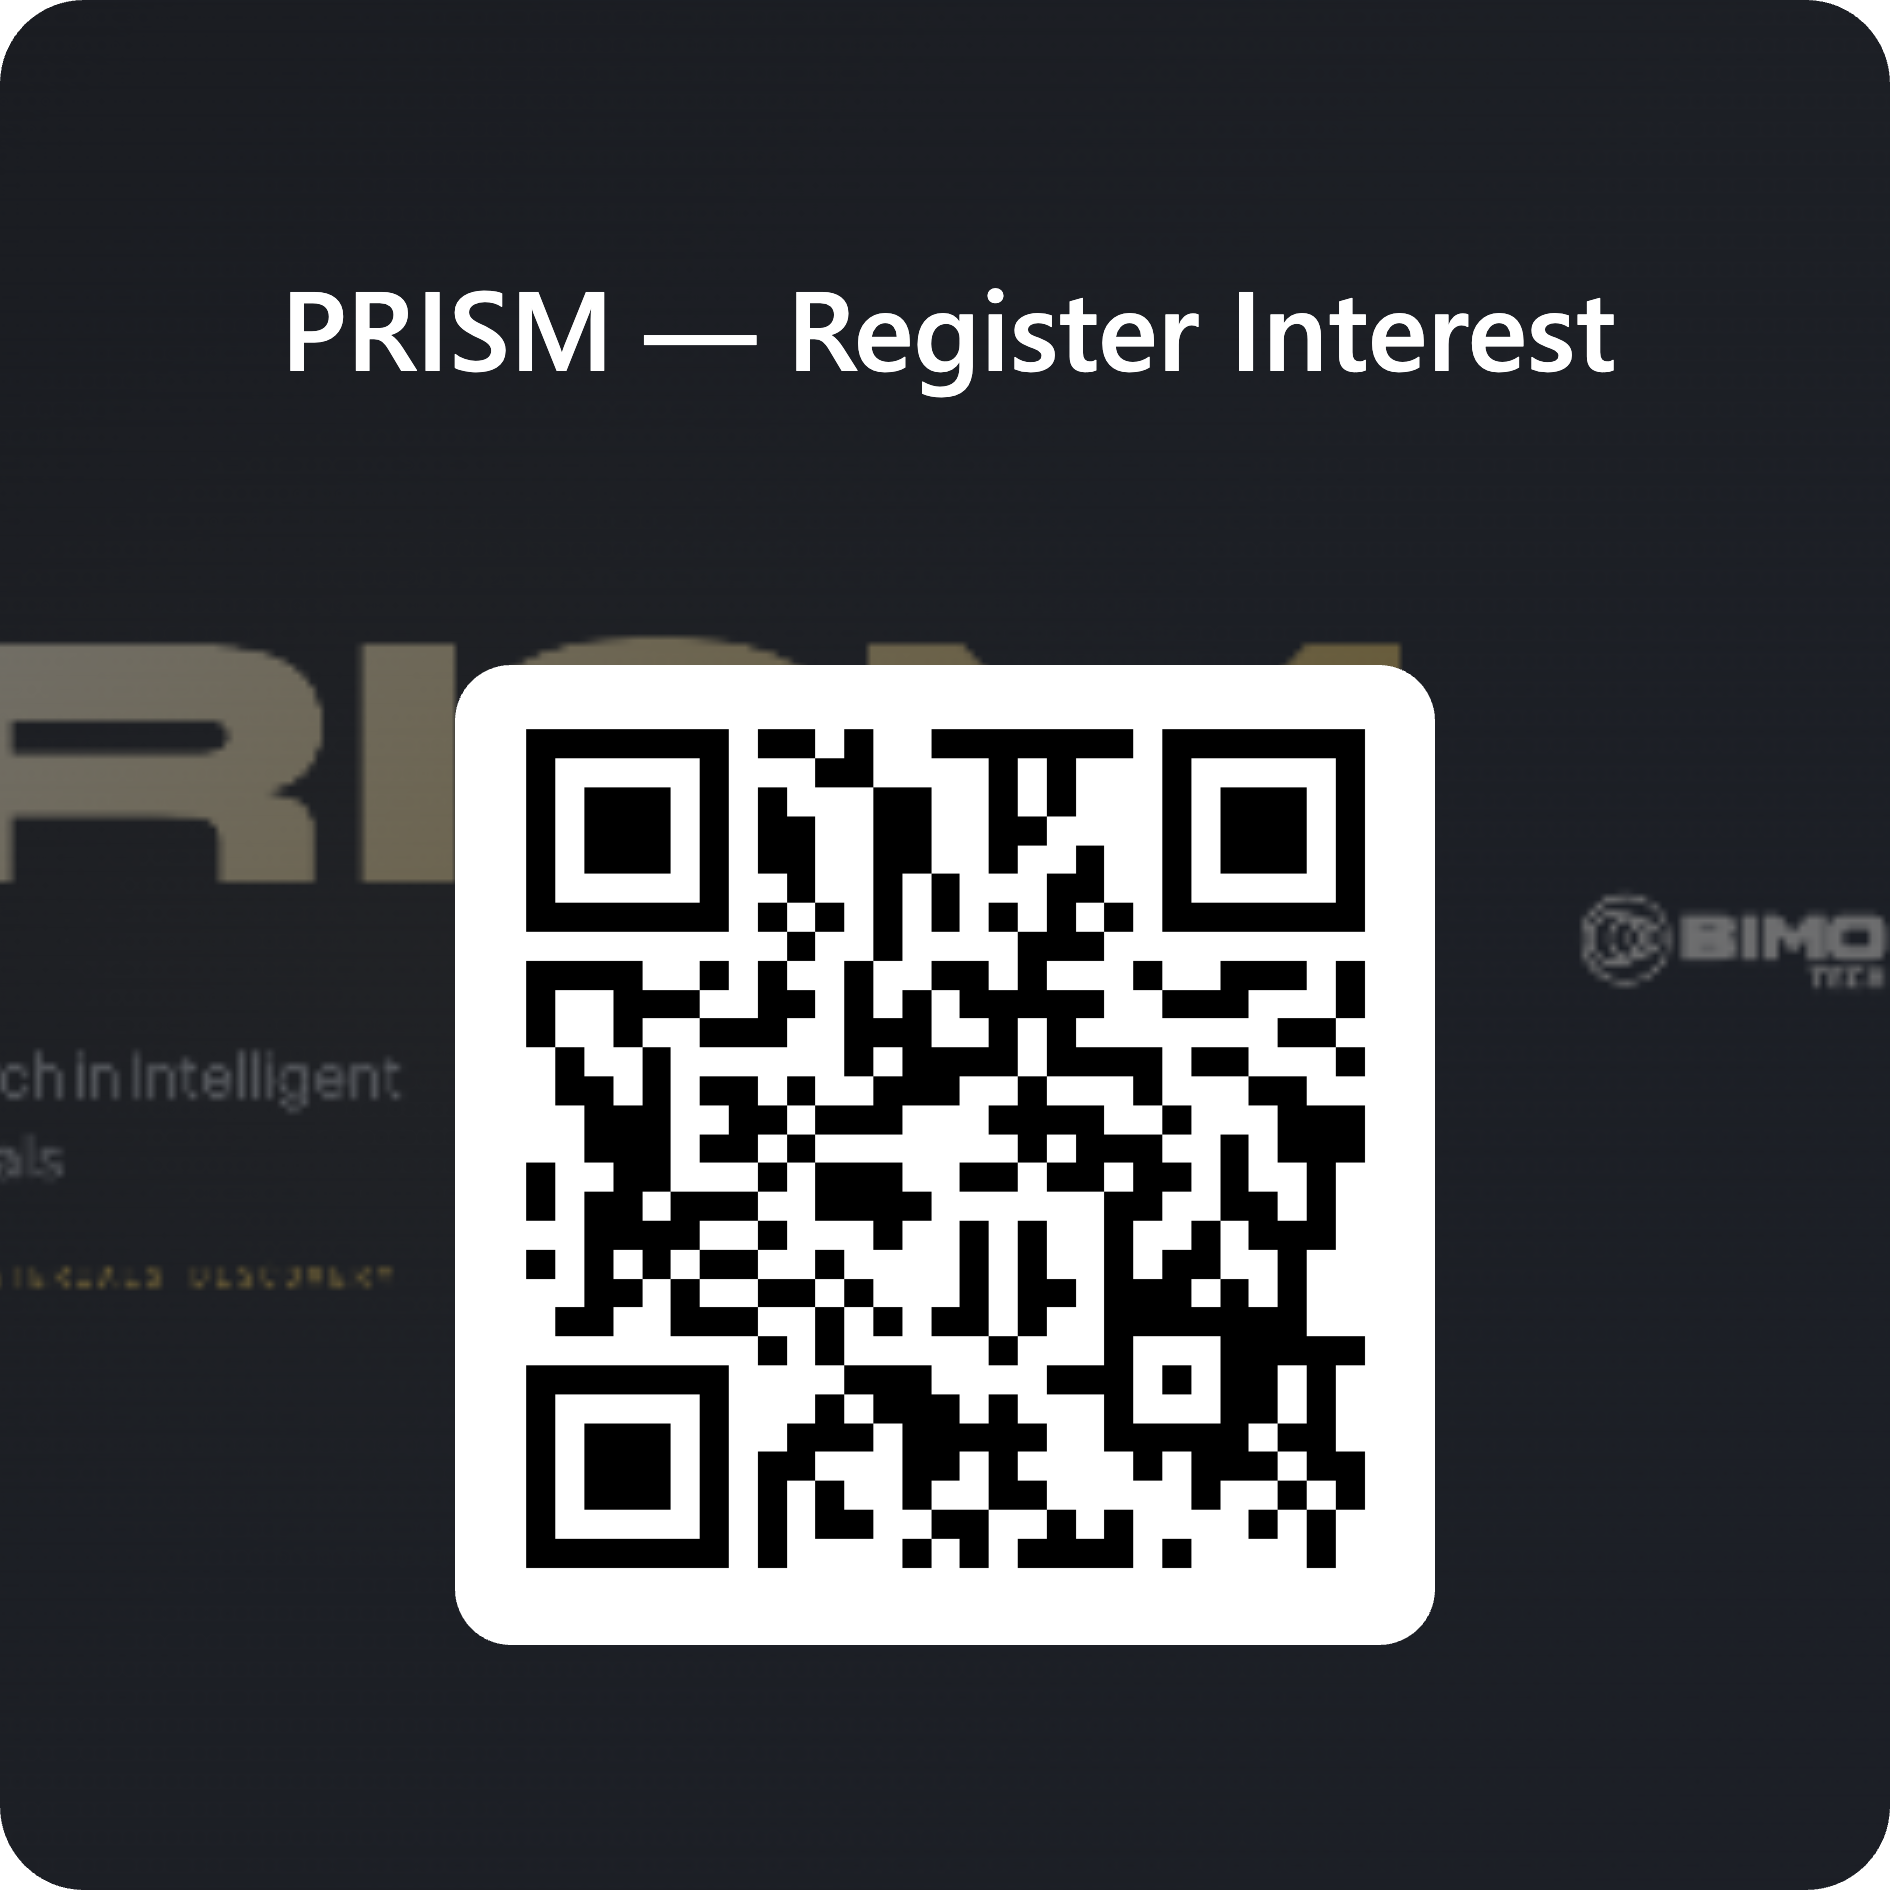
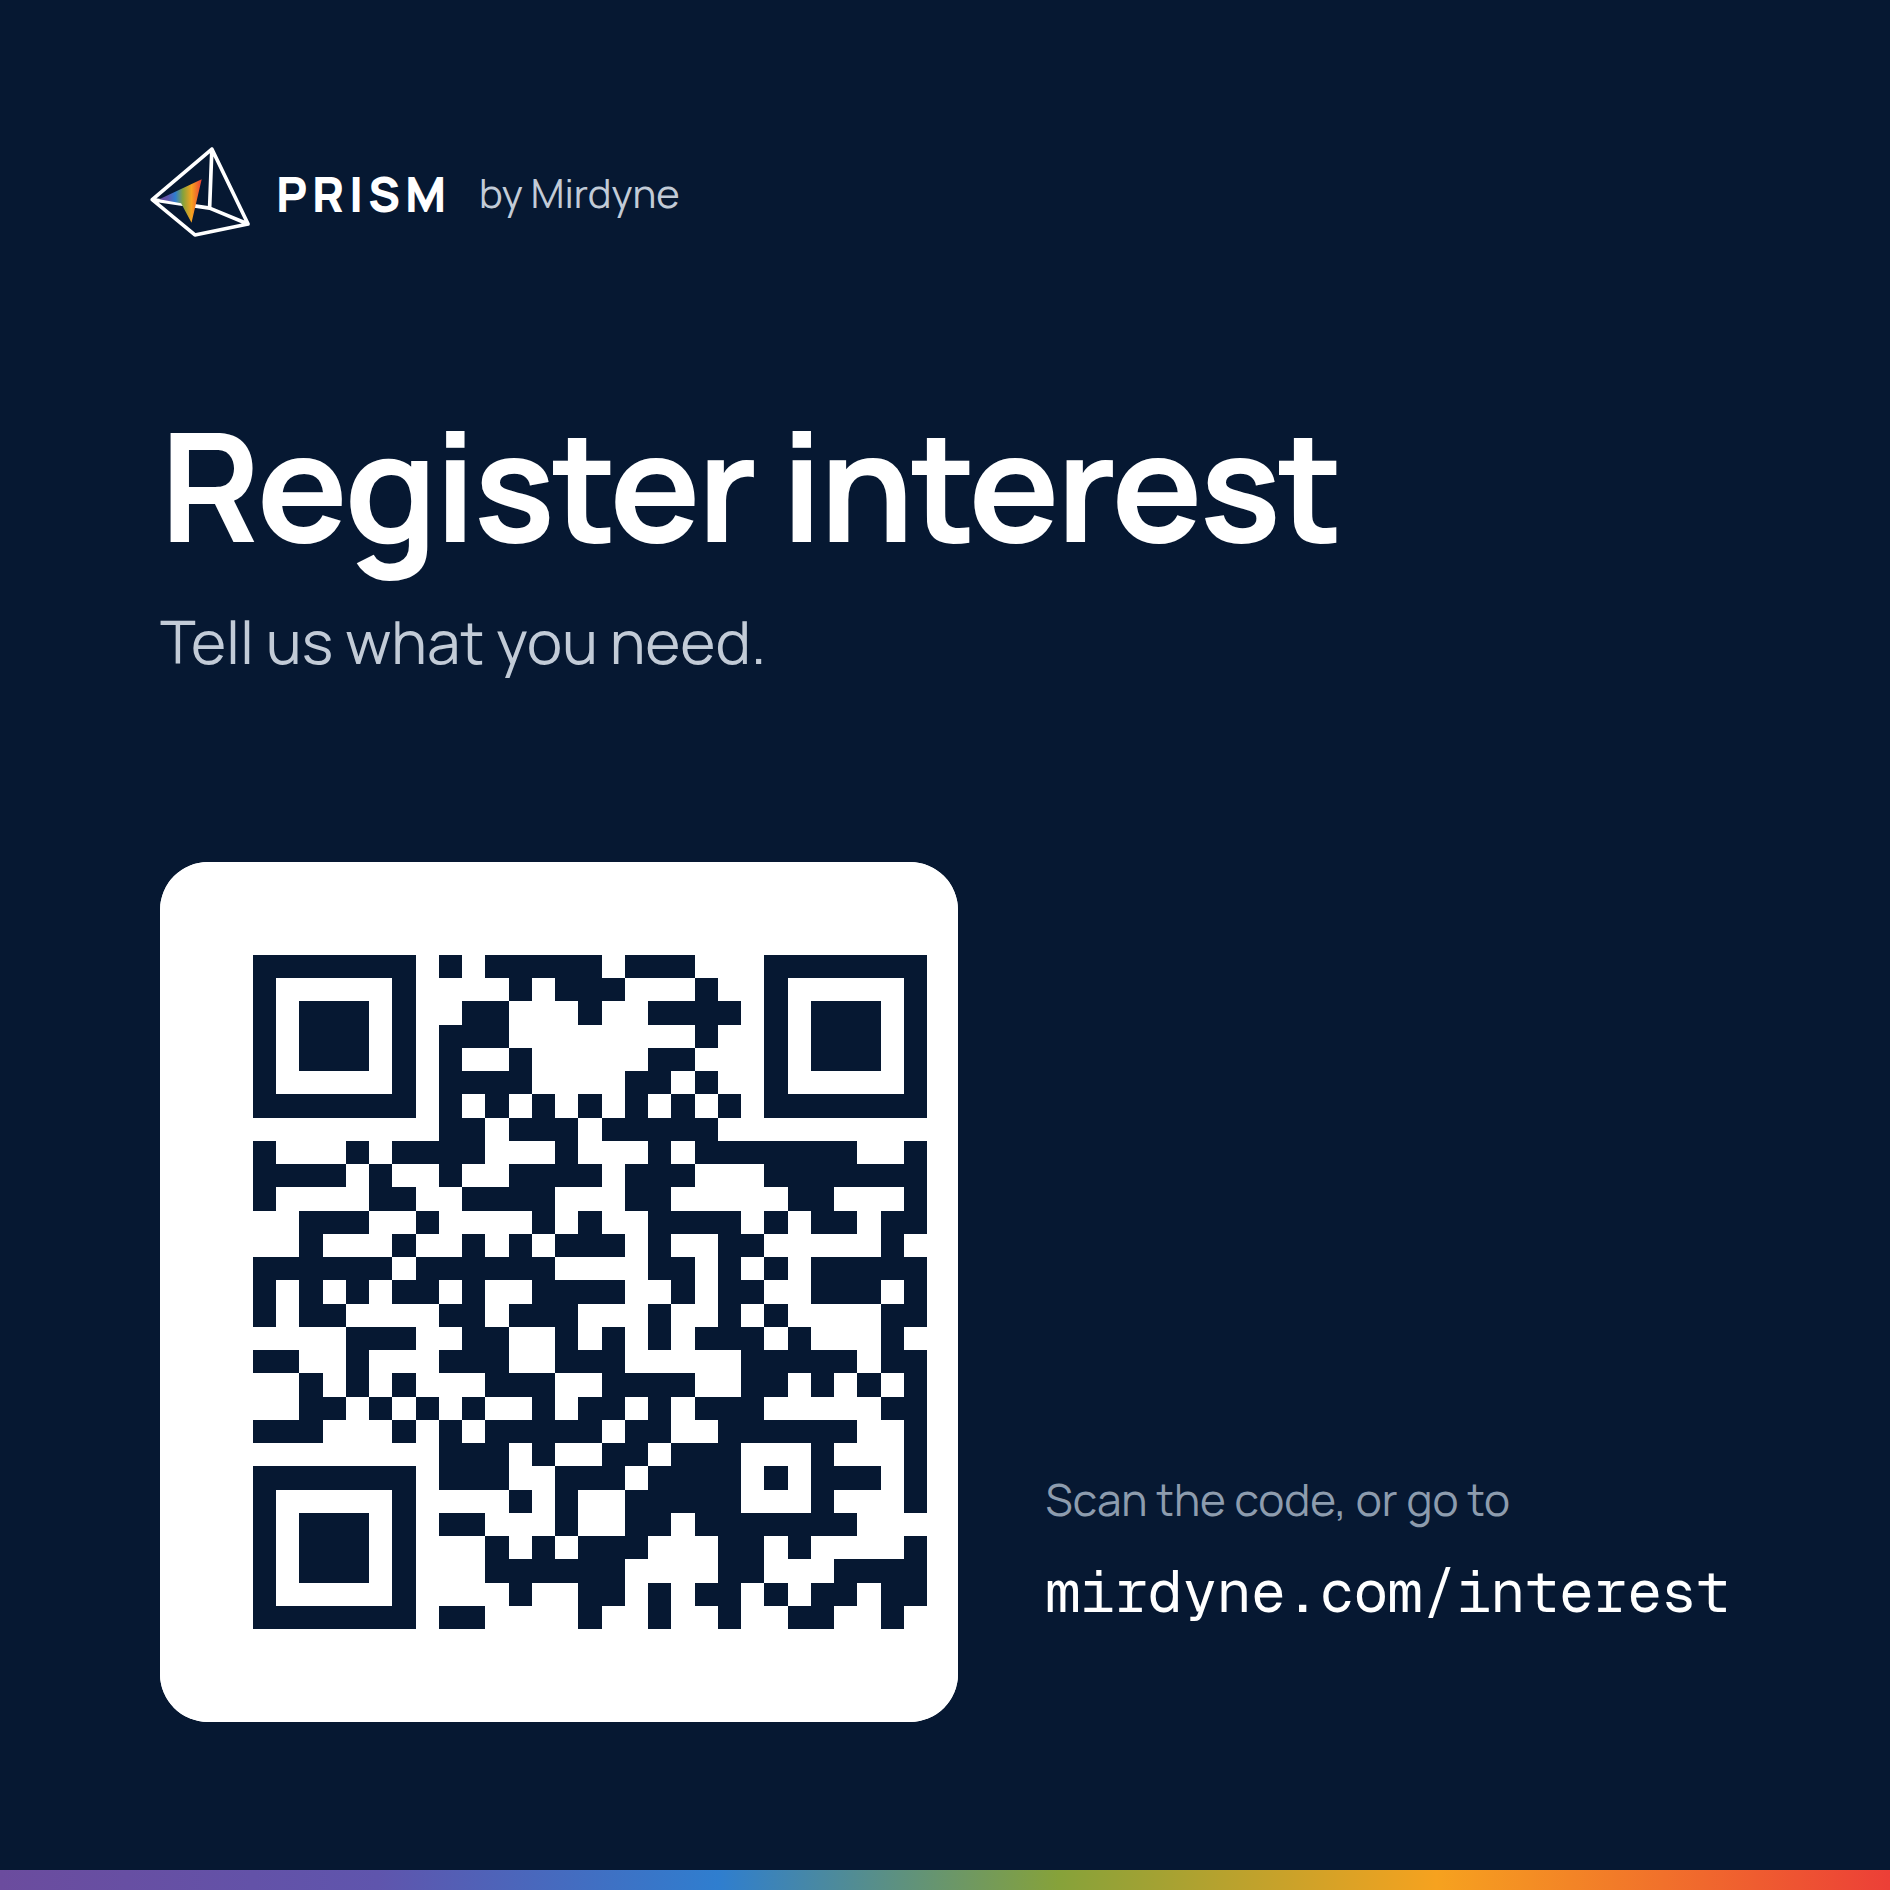
feat(site): a QR code for our own form, and a year's cache for built files
- The QR code in public/ still opened the old Microsoft Form. prism-qr.png is
  now a card in our colours (same name, 1890 px square) and prism-qr.svg is
  the code alone as a vector for print; both open
  https://www.mirdyne.com/interest/. They decode to that address at full size
  and scaled down to a sixth. The identical copy under the Microsoft Forms
  file name is removed.
- Files under /assets/ went out with max-age=0, so every page view re-checked
  every script with the server. Vite names them after their content, so they
  are now cached for a year (immutable). Files in public/ keep their names and
  are not cached that way.

Claude-Session: https://claude.ai/code/session_01LFqksh9DGKnHfGTHZ8pXK1

diff --git a/README.md b/README.md
@@ -15,7 +15,10 @@
 
 Each page is its own HTML file (`index.html`, `platform/index.html`, …), listed
 in `vite.config.ts`; `vercel.json` also serves them without the trailing slash,
-and sends the old `/evidence/` address to `/method/#proof`.
+and sends the old `/evidence/` address to `/method/#proof`. Files under
+`/assets/` are cached for a year: Vite names each one after its content, so a
+changed file gets a new name. Files in `public/` keep their names, so they are
+not cached that way.
 
 Both are built from the same component library in `src/ds/` and the tokens in
 `src/styles/`, which are also published as the PRISM design system.
@@ -59,6 +62,10 @@ that changes.
   `api/interest-cleanup.ts` does that for the store once a day (`crons` in
   `vercel.json`, production only), authorised by the `CRON_SECRET`
   environment variable. The emails in the inbox have to be deleted there.
+- **QR code for print:** `public/prism-qr.png` (a card, 1890 px square) and
+  `public/prism-qr.svg` (the code alone, as a vector) open
+  https://www.mirdyne.com/interest/. They replace the Microsoft Forms code;
+  printed copies of that one still lead to the old form.
 - Locally, `npm run dev` does not run `api/`; the form then shows its error
   message. `vercel dev` runs both.
 
